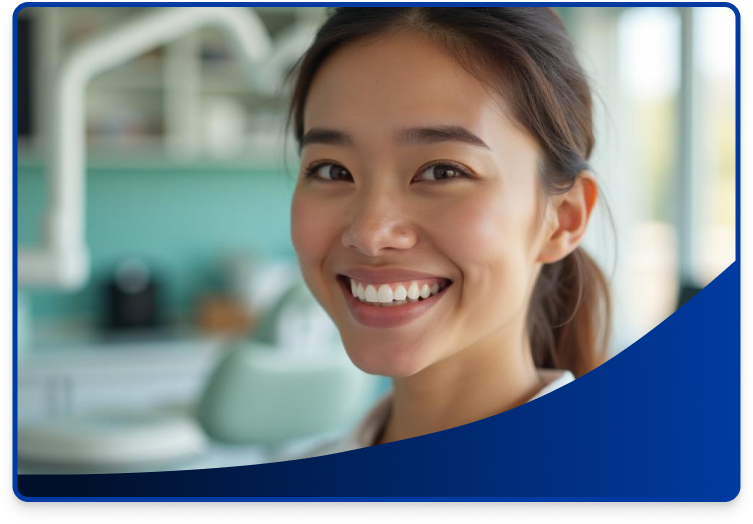
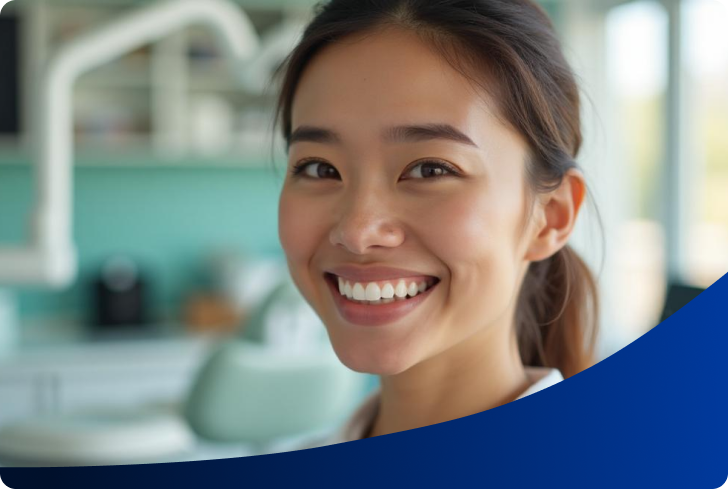
Fix: Hero image

diff --git a/src/components/Hero/index.tsx b/src/components/Hero/index.tsx
@@ -69,16 +69,16 @@ const Hero = () => {
 
           {/* Image */}
           <div className="relative">
-            <div className="relative rounded-2xl overflow-hidden shadow-lg">
+            <div className="relative rounded-2xl overflow-hidden shadow-lg border-3 border-[#003BA1]">
               <Image
                 src="/hero-dental.png"
                 width={800}
                 height={600}
                 priority
                 alt="Pessoa sorrindo com dentes perfeitos - Instituto do Sorriso"
-                className="w-full h-[500px] object-cover"
+                className="w-full h-[500px] object-cover border-3 border-[#003BA1]"
               />
-              <div className="absolute inset-0 bg-gradient-to-t from-blue-900/20 to-transparent" />
+              <div className="" />
             </div>
 
             {/* Floating elements */}
